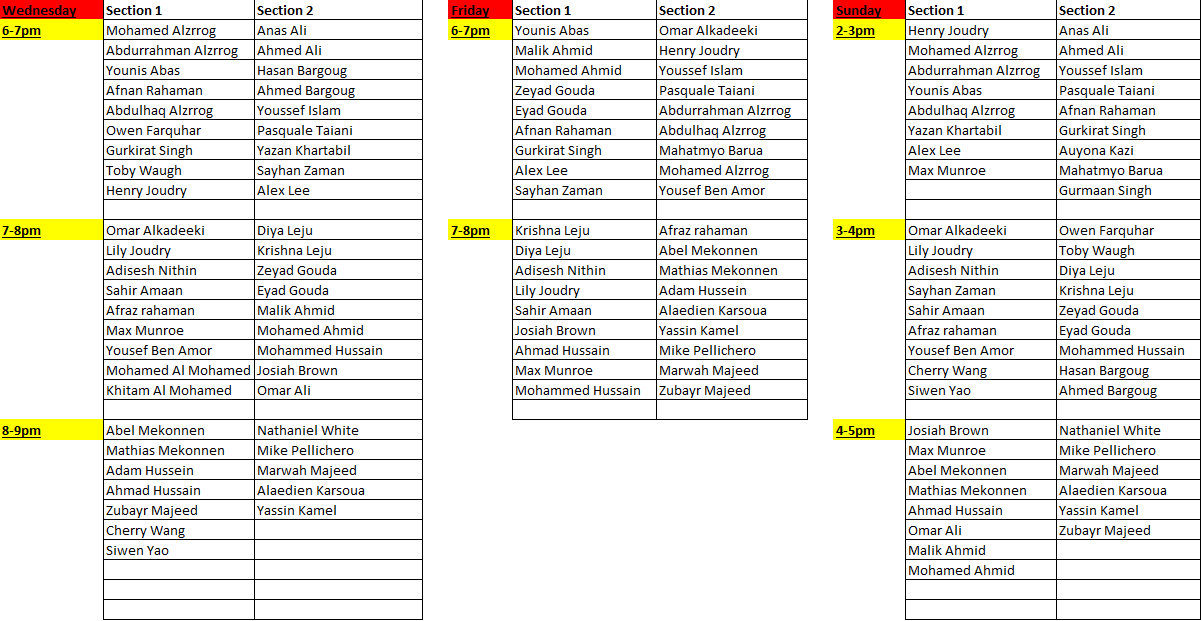
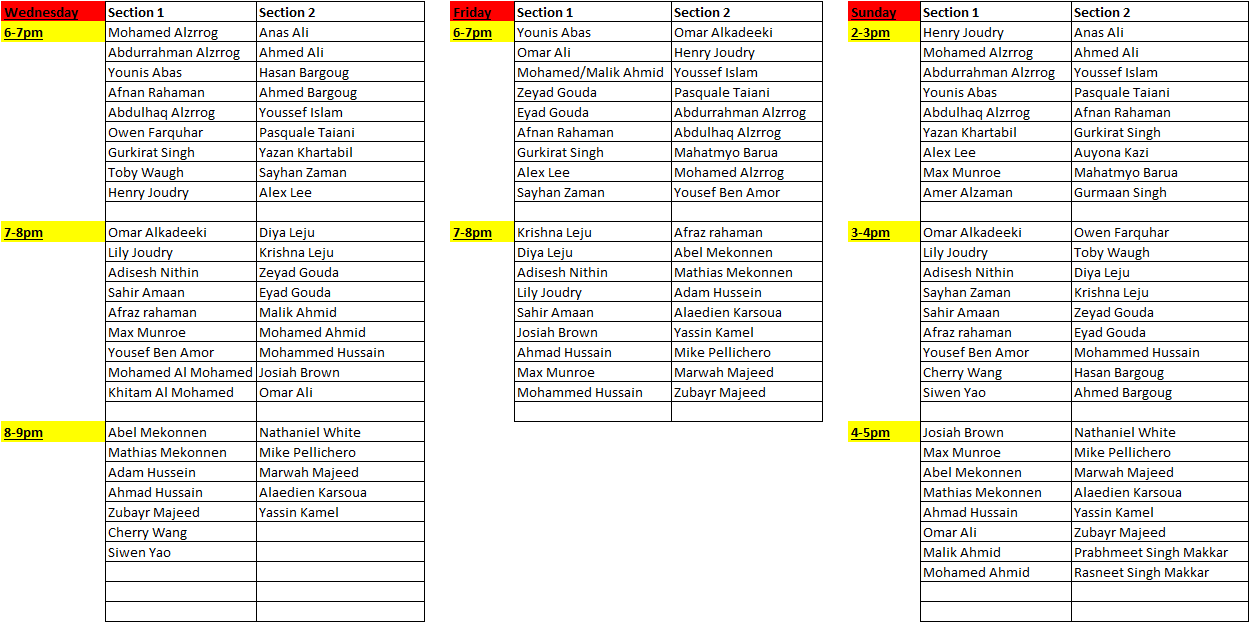
schedule update

Changed region(s): [[0.0, 0.0, 1.0, 0.9485]]

diff --git a/templates/scheduleprices.html b/templates/scheduleprices.html
@@ -19,7 +19,7 @@
               The below snapshot shows the current class allocations. If you have an issue with the timing, please contact Sean O'Neil directly (saoneil@live.com). The currently available time slots are as follows:<br><br>
               <strong><u>Wednesday</u></strong> ||  <strong>8-9pm -- </strong>Section 1: 2 spots, Section 2: 4 spots <br>
               <strong><u>Friday</u></strong> || No Available Spots <br>
-              <strong><u>Sunday</u></strong> || <strong>2-3pm -- </strong>Section 1: 1 spot || <strong>4-5pm -- </strong>Section 1: 1 spot, Section 2: 3 spots
+              <strong><u>Sunday</u></strong> || <strong>4-5pm -- </strong>Section 1: 1 spot, Section 2: 1 spot
             </p>
             <img src="{{url_for('static', filename='images/class_schedule.png')}}" width="1100" height="600"/><br><br><br><br><br><br>
             
